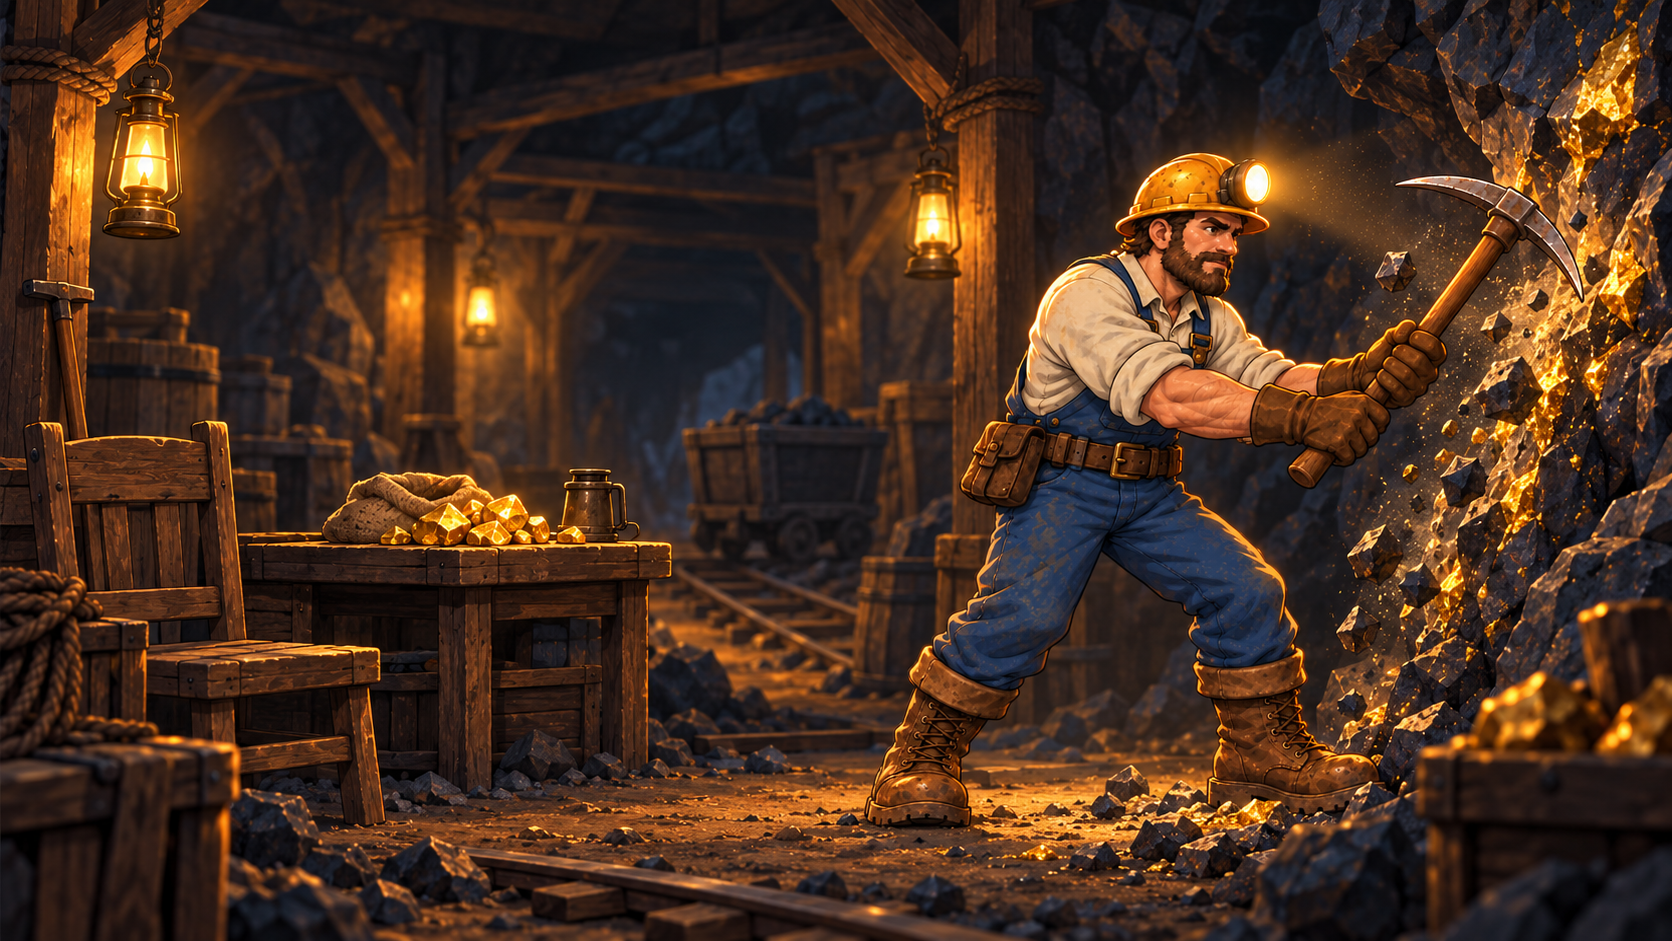
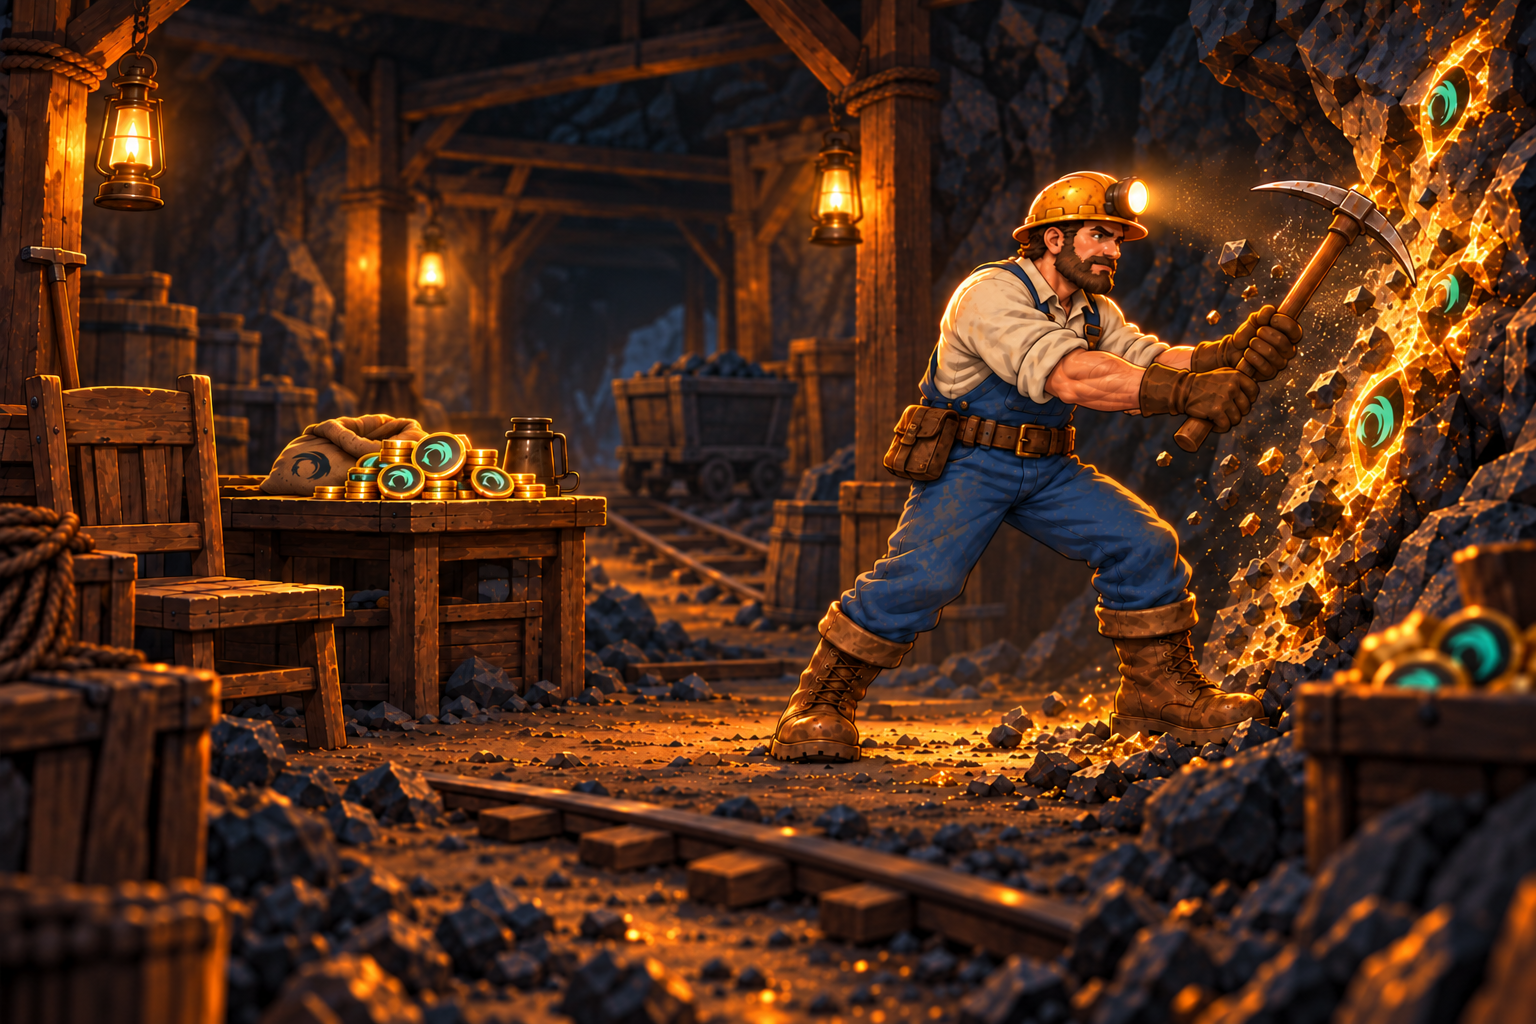
Add production scene artwork and Safex branding

diff --git a/src/main.ts b/src/main.ts
@@ -4,6 +4,9 @@ import readyScene from "./assets/scenes/READY-STOPPED.png";
 import miningScene from "./assets/scenes/MINING.png";
 import approvedScene from "./assets/scenes/APPROVED.png";
 import rejectScene from "./assets/scenes/REJECT.png";
+import offlineScene from "./assets/scenes/OFFLINE.png";
+
+import safexWordmark from "./assets/branding/safex-gradient-logo.svg";
 
 import "./styles.css";
 
@@ -39,37 +42,31 @@ const scenes: Record<
   {
     image: string;
     label: string;
-    description: string;
   }
 > = {
   ready: {
     image: readyScene,
     label: "READY / STOPPED",
-    description: "Miner seated in chair",
   },
 
   mining: {
     image: miningScene,
     label: "MINING",
-    description: "Miner working the rockface",
   },
 
   approved: {
     image: approvedScene,
     label: "BLOCK FOUND",
-    description: "Accepted block",
   },
 
   offline: {
-  image: readyScene,
+  image: offlineScene,
   label: "OFFLINE",
-  description: "Mining unavailable",
   },
 
   reject: {
     image: rejectScene,
     label: "REJECTED",
-    description: "Fool's gold",
   },
 };
 
@@ -77,25 +74,36 @@ const scenes: Record<
 document.querySelector<HTMLDivElement>("#app")!.innerHTML = `
   <div class="app-shell">
 
-    <header class="topbar">
+   <header class="topbar">
 
-      <div class="brand">
-        <div class="brand-title">The Safex Mine</div>
-        <div class="brand-subtitle">Safex Cash Solo Miner</div>
-      </div>
+  <div class="brand">
+    <div class="brand-title">The Safex Mine</div>
+    <div class="brand-subtitle">Safex Cash Solo Miner</div>
+  </div>
 
-      <div class="connection-status">
-        <span
-          class="status-dot stopped"
-          id="status-dot"
-        ></span>
 
-        <span id="connection-text">
-          Ready
-        </span>
-      </div>
+  <div class="topbar-right">
 
-    </header>
+    <div class="connection-status">
+      <span
+        class="status-dot stopped"
+        id="status-dot"
+      ></span>
+
+      <span id="connection-text">
+        Ready
+      </span>
+    </div>
+
+    <img
+      class="safex-wordmark"
+      src="${safexWordmark}"
+      alt="Safex"
+    />
+
+  </div>
+
+</header>
 
 
     <main class="workspace">
@@ -130,14 +138,7 @@ document.querySelector<HTMLDivElement>("#app")!.innerHTML = `
               READY / STOPPED
             </div>
 
-            <div
-              class="scene-description"
-              id="scene-description"
-            >
-              Miner seated in chair
             </div>
-
-          </div>
 
         </div>
 
@@ -365,11 +366,6 @@ const connectionText =
 const sceneState =
   document.querySelector<HTMLDivElement>(
     "#scene-state",
-  )!;
-
-const sceneDescription =
-  document.querySelector<HTMLDivElement>(
-    "#scene-description",
   )!;
 
 const imageA =
@@ -857,9 +853,6 @@ function setScene(state: SceneState) {
 
   sceneState.textContent =
     scene.label;
-
-  sceneDescription.textContent =
-    scene.description;
 
   currentState = state;
 }

diff --git a/src/styles.css b/src/styles.css
@@ -76,6 +76,24 @@ input {
     rgba(8, 10, 12, 0.94);
 }
 
+.topbar-right {
+  flex: 0 0 auto;
+
+  display: flex;
+  align-items: center;
+
+  gap: clamp(18px, 2vw, 28px);
+}
+
+.safex-wordmark {
+  width: clamp(105px, 8vw, 135px);
+  height: auto;
+
+  flex: 0 0 auto;
+
+  display: block;
+}
+
 .brand {
   min-width: 0;
 }
@@ -262,20 +280,6 @@ input {
 
   font-weight: 700;
 }
-
-.scene-description {
-  margin-top: 8px;
-
-  font-size:
-    clamp(20px, 2vw, 28px);
-
-  line-height: 1.15;
-
-  font-weight: 600;
-
-  color: #f0e9df;
-}
-
 
 /* ---------------------------------------------------------
    CONTROL PANEL
